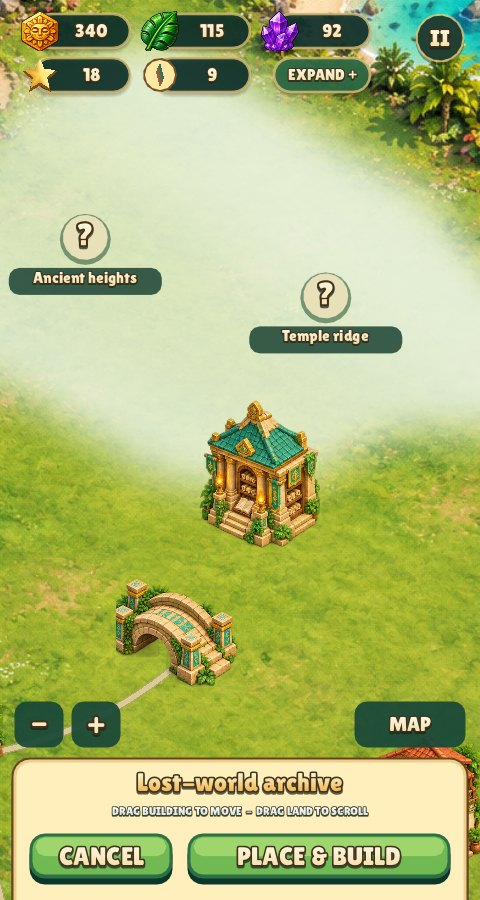
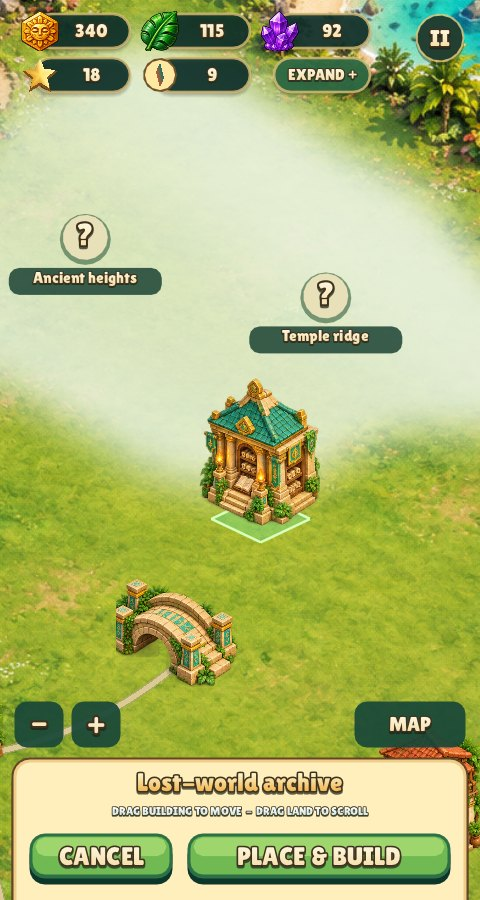
City: lift a dragged building over the footprint of its landing tile
The snap step is finer than a building's base, so the landing tile's
footprint was always hidden under the dragged sprite. While held
(c.held), the ghost now rises 34 points over the green or red footprint
of the tile it will land on, and settles back when let go.

Claude-Session: https://claude.ai/code/session_01Gft4mzvEjbacBPh8LNjutP

Changed region(s): [[0.4062, 0.4044, 0.6875, 0.6222], [0.7812, 0.8089, 1.0, 0.9644]]

diff --git a/engine/city.c b/engine/city.c
@@ -193,7 +193,7 @@ void city_begin_move(city *c, int index)
     c->ghost = city_snap(c, c->items[index].pos);
 }
 
-void city_cancel(city *c) { c->placing = c->moving = -1; }
+void city_cancel(city *c) { c->placing = c->moving = -1, c->held = false; }
 
 city_event city_confirm(city *c, purse *wallet, double now)
 {
@@ -269,9 +269,12 @@ city_event city_update(city *c, input in, purse *wallet, double now, float dt)
         c->press_target = 1;
     }
     /* the ghost follows the finger freely and lands on the grid when let go */
-    if (in.dragging && !in.captured && c->press_target == 1 && c->placing >= 0)
+    if (in.dragging && !in.captured && c->press_target == 1 && c->placing >= 0) {
         c->ghost = vec2_add(camera_to_world(c->cam, in.pos), c->grab);
-    if (in.released && c->press_target == 1 && c->placing >= 0) c->ghost = city_snap(c, c->ghost);
+        c->held = true;
+    }
+    if (in.released && c->press_target == 1 && c->placing >= 0) c->ghost = city_snap(c, c->ghost), c->held = false;
+    c->lift = approachf(c->lift, c->held && c->placing >= 0 ? 1 : 0, 14, dt);
 
     input cam_in = in;
     if (c->press_target) cam_in.dragging = false, cam_in.drag = v2(0, 0);
@@ -507,7 +510,8 @@ void city_draw(const city *c, input in, double now)
         vec2 land = city_snap(c, c->ghost);   /* mid-drag the footprint shows where it will land */
         bool ok = city_can_place(c, land, c->placing, c->moving);
         draw_footprint(c, land, c->placing, ok);
-        draw_building(c, (building){c->ghost, c->placing, 0}, ok ? rgba(255, 255, 255, 245) : rgba(255, 90, 80, 160), 0);   /* red: it can't go here */
+        float lift = c->lift * 34 * cam.zoom;   /* held up so the footprint shows beneath */
+        draw_building(c, (building){c->ghost, c->placing, 0}, ok ? rgba(255, 255, 255, 245) : rgba(255, 90, 80, 160), lift);   /* red: it can't go here */
     } else if (c->selected >= 0 && in.hover && !in.down && rect_contains(cam.view, in.pos) && !ui_blocks(in.pos)) {
         vec2 p = city_snap(c, camera_to_world(cam, in.pos));
         bool ok = city_can_place(c, p, c->selected, -1);

diff --git a/engine/api_lua.c b/engine/api_lua.c
@@ -1548,6 +1548,7 @@ static int l_city_index(lua_State *L)
     if (!strcmp(k, "placing")) { lua_pushinteger(L, p->placing); return 1; }
     if (!strcmp(k, "moving")) { lua_pushinteger(L, p->moving); return 1; }
     if (!strcmp(k, "ghost")) { api_push_vec2(L, p->ghost); return 1; }
+    if (!strcmp(k, "held")) { lua_pushboolean(L, p->held); return 1; }
     return luaL_error(L, "city has no field '%s'", k);
 }
 
@@ -1620,6 +1621,7 @@ static int l_city_newindex(lua_State *L)
     if (!strcmp(k, "income_icon")) { p->income_icon = api_get_texture(L, 3); return 0; }
     if (!strcmp(k, "selected")) { p->selected = (int)lua_tonumber(L, 3); return 0; }
     if (!strcmp(k, "ghost")) { p->ghost = api_get_vec2(L, 3); return 0; }
+    if (!strcmp(k, "held")) { p->held = lua_toboolean(L, 3); return 0; }
     return luaL_error(L, "city: cannot set field '%s'", k);
 }
 

diff --git a/engine/engine.h b/engine/engine.h
@@ -647,12 +647,14 @@ typedef struct city {
     int placing;                            /* building type being placed, -1 = none */
     int moving;                             /* index being moved, -1 = a new building */
     vec2 ghost;                             /* where it would go */
+    bool held;                              /* the ghost is being dragged: lifted over its landing tile */
 
     /* engine bookkeeping */
     int press_target;                       /* 0 nothing, 1 ghost, 2 + index of a building */
     vec2 grab;
     int pop_index;
     float pop_time;
+    float lift;                             /* 0 on the ground .. 1 held up */
 } city;
 
 void city_init(city *c, const char *ground_path);

diff --git a/tests/test_main.c b/tests/test_main.c
@@ -233,10 +233,12 @@ static void test_city(void)
     drag = (input){.down = true, .dragging = true, .pos = v2(360, 568), .press_pos = v2(320, 558), .pinch = 1};
     city_update(&c, drag, &wallet, 0, 0);
     NEAR(c.ghost.x, 360); NEAR(c.ghost.y, 618);   /* not snapped mid-drag */
+    CHECK(c.held);
     NEAR(city_snap(&c, c.ghost).x, 352); NEAR(city_snap(&c, c.ghost).y, 624);
     drag.down = false, drag.released = true;
     city_update(&c, drag, &wallet, 0, 0);
     NEAR(c.ghost.x, 352); NEAR(c.ghost.y, 624);
+    CHECK(!c.held);
     city_cancel(&c);
     vec2 spot;
     CHECK(city_find_spot(&c, 2, v2(704, 800), &spot) && city_can_place(&c, spot, 2, -1));

diff --git a/games/relic-rush/README.md b/games/relic-rush/README.md
@@ -178,7 +178,7 @@ make web && python3 -m http.server 8080 --directory dist   # http://localhost:80
 
 The game is laid out for a 480 × 900 portrait screen inside the device's safe area. It is `fixed` with `max_aspect = 2.2`, so on taller phones the screen keeps its width and grows taller (`R.layout()` moves the bottom group down by the extra height, `R.drop`). Its jungle backdrop, the island and the bottom sheet run on under the status bar and the home indicator to the screen edges (`app.bleed()` / `gfx.bleed`). Runtime art in `data/` is committed; `python3 games/relic-rush/tools/prepare_assets.py` rebuilds it from the sources in `art/` (needs Pillow).
 
-Debug and capture options (no progress is written): `--level N`, `--city N` (an island after N expeditions; `--open MASK` limits it to those regions, bit per region), `--look X,Y` (centre the island camera on a world point), `--showcase`, `--overview`, `--placing [blocked|dragging]` (`blocked`: the red ghost over a built wonder; `dragging`: the ghost held between tiles, its footprint on the tile it will land on), `--zone N`, `--card N`, `--victory`, `--dialog guide|pause|failed|finale|intro|mara|tomas|adrian|bubble`, `--tiles relics|jewels|resources`, `--fx ray|bomb|prism`, `--smoke` (plays level one through injected clicks, claims, builds and enters level two), plus the engine's `--shot file.png --frames N`, `--size WxH`, `--fresh` and `--mute`.
+Debug and capture options (no progress is written): `--level N`, `--city N` (an island after N expeditions; `--open MASK` limits it to those regions, bit per region), `--look X,Y` (centre the island camera on a world point), `--showcase`, `--overview`, `--placing [blocked|dragging]` (`blocked`: the red ghost over a built wonder; `dragging`: the ghost held up between tiles over the footprint of the tile it will land on), `--zone N`, `--card N`, `--victory`, `--dialog guide|pause|failed|finale|intro|mara|tomas|adrian|bubble`, `--tiles relics|jewels|resources`, `--fx ray|bomb|prism`, `--smoke` (plays level one through injected clicks, claims, builds and enters level two), plus the engine's `--shot file.png --frames N`, `--size WxH`, `--fresh` and `--mute`.
 
 ## Controls and saved progress
 

diff --git a/docs/ENGINE.md b/docs/ENGINE.md
@@ -180,8 +180,9 @@ typedef struct { const char *name, *about, *sprite_path; texture sprite;
   either instant (`selected`: tap the land) or a session with a ghost
   (`city_begin_place` / `city_begin_move`, drag or tap to move the ghost,
   `city_confirm` or `city_cancel`). A dragged ghost is not snapped until it
-  is let go; `city_snap` gives the tile it will land on, where the footprint
-  is drawn and validity checked meanwhile. With `movable`, dragging a building
+  is let go; meanwhile it is `held`, drawn lifted over the green or red
+  footprint of the tile it will land on (`city_snap`), where validity is
+  checked. With `movable`, dragging a building
   starts moving it. `city_find_spot` searches outwards from a hint.
 - **Drawing.** Ground, optional curved paths linking each building to its
   nearest older neighbour, fog over closed zones (under the buildings, which

diff --git a/README.md b/README.md
@@ -190,8 +190,8 @@ run to the edges this way.
 
 Cities snap placement previews, taps and confirmations to an isometric grid.
 A dragged ghost follows the finger freely and lands on the nearest tile when
-let go; meanwhile its footprint, and the red or green check, already sit on
-that tile (`c:snap(p)` gives it). `city.tile` sets its half extents (default
+let go; meanwhile it is lifted (`c.held`) over a green or red footprint on
+that tile, which is also where validity is checked (`c:snap(p)` gives it). `city.tile` sets its half extents (default
 `size2(32, 16)`). Building `footprint` half extents define both the green/red
 ground diamond and collision checks; `sink` aligns the sprite bottom to that
 ground plane. Existing saved positions remain intact until the player confirms

diff --git a/docs/LUA_API.md b/docs/LUA_API.md
@@ -2163,6 +2163,7 @@ The building meta-game: ground, zones, a catalogue of building types and the pla
 | `placing` | `integer` | read | Building type being placed, -1 = none. |
 | `moving` | `integer` | read | Index being moved, -1 = a new building. |
 | `ghost` | `vec2` | read/write | Where it would go. |
+| `held` | `boolean` | read/write | The ghost is being dragged: lifted over the footprint of the tile it will land on. |
 
 **city.{NONE, BUILT, MOVED, BLOCKED, CANT_AFFORD, LOCKED_TYPE, COLLECTED, NOT_READY, PICKED, ZONE}** - city_event results.
 
